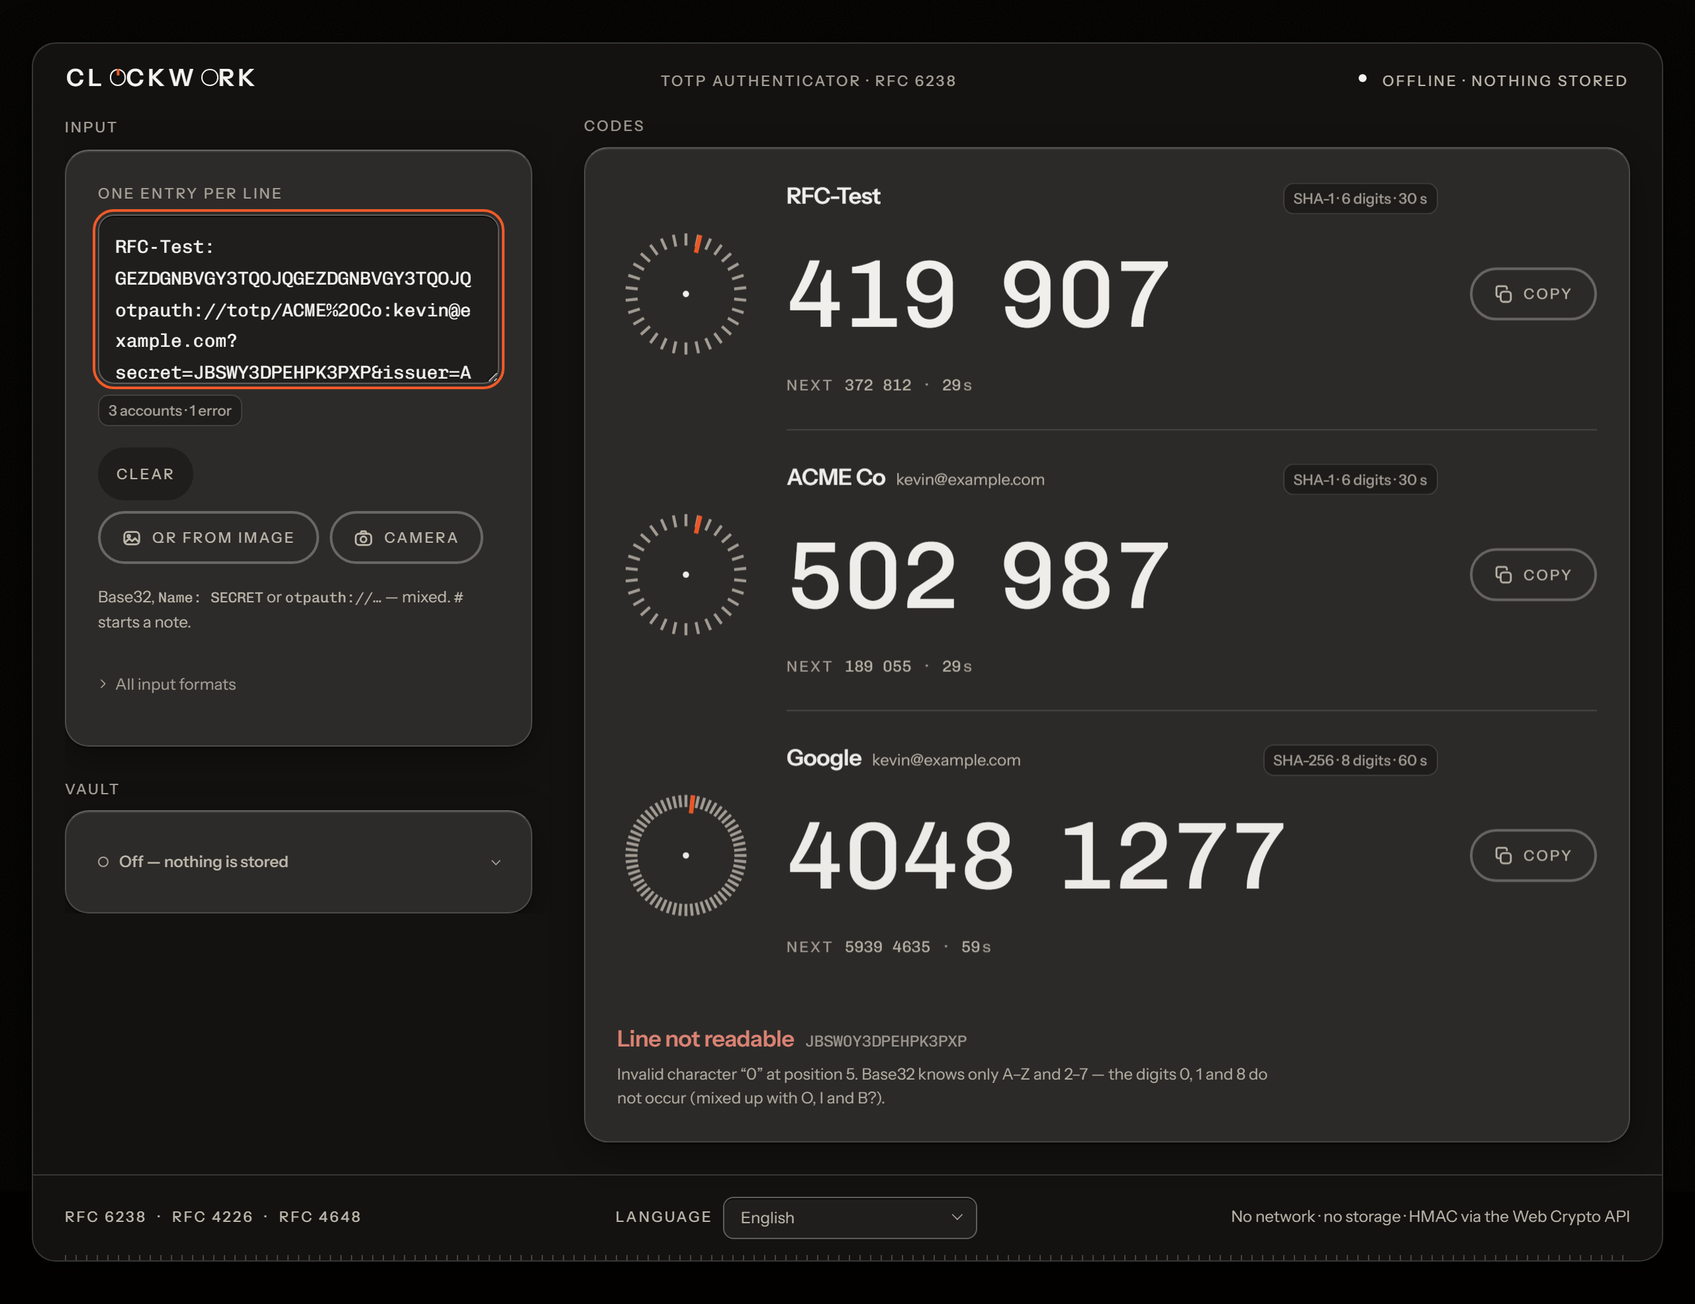
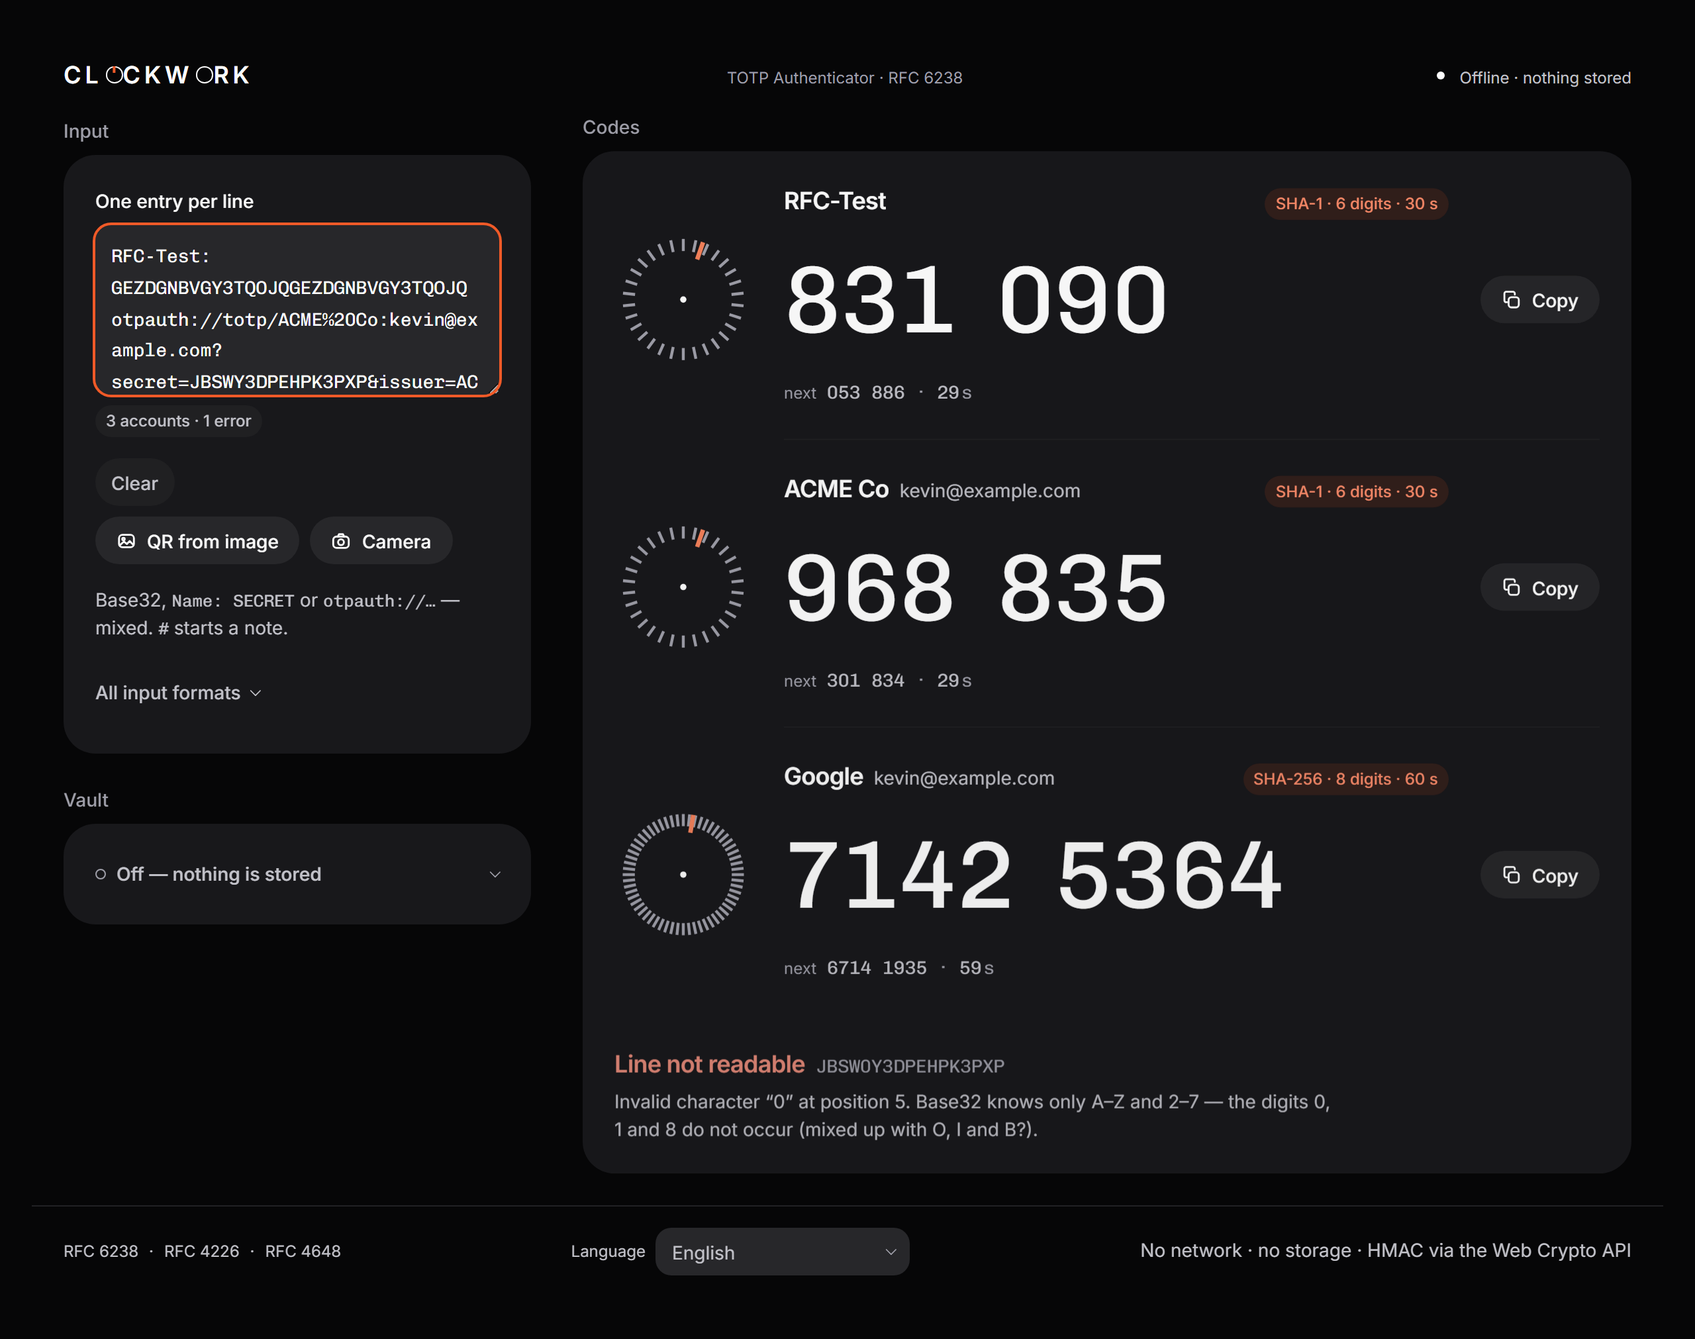
docs: Doku und README-Bilder auf v1.3.0
Bundle-Zahlen neu gemessen (781/474/457 kB), Schrift-Abschnitte auf
Inter, v1.3.0-Abschnitt in der Gestaltung, Kontrasttabellen auf die
88 Paare der neuen Leiter.

diff --git a/docs/README.de.md b/docs/README.de.md
@@ -65,7 +65,7 @@ Schloss billiger als die Frage, ob das erste noch hält.
 | Ziel                  | Was es ist                                                           |
 | --------------------- | -------------------------------------------------------------------- |
 | `dist/`               | Installierbare PWA: Manifest, Service Worker, Icons, offline nutzbar |
-| `dist/clockwork.html` | **Eine einzige Datei**, ~659 kB, alles inline — auch die Schriften   |
+| `dist/clockwork.html` | **Eine einzige Datei**, ~781 kB, alles inline — auch die Schriften   |
 
 `dist/clockwork.html` ist die Datei für den täglichen Gebrauch: irgendwohin
 kopieren, doppelklicken, fertig. Kein Server, keine Internetverbindung. Sie hat
@@ -184,7 +184,8 @@ wiegt mehrere Megabyte und würde die Single-File-Datei sprengen. Stattdessen gi
 es je Schriftsystem einen kuratierten System-Stack (`src/styles/scripts.css`),
 angesteuert über `data-script` am `<html>`.
 
-Dazu kam **ein** neuer Schnitt: Instrument Sans `latin-ext` (11 kB). Elf Sprachen
+Dazu kommt **ein** zweiter Schnitt: Inter `latin-ext` (85 kB — Inter deckt dort
+deutlich mehr Zeichen ab als das frühere Instrument Sans mit 11). Elf Sprachen
 brauchen Zeichen jenseits von Latin-1 — Polnisch (ł ą ę), Tschechisch (č ř ž),
 Ungarisch (ő ű), Rumänisch (ă ș ț), Türkisch (ğ ş) und andere. Ohne diesen
 Schnitt käme in einem polnischen Satz jedes zweite Wort aus einer Ersatzschrift.
@@ -192,8 +193,8 @@ Der Browser lädt ihn nur, wenn wirklich so ein Zeichen vorkommt — dafür ist
 `unicode-range` da.
 
 Kyrillisch, Griechisch und Vietnamesisch bekommen dagegen eine durchgehende
-Systemschrift: Für sie bringt Instrument Sans gar keinen Schnitt mit, und eine
-halb gesetzte Schrift ist schlechter als eine andere ganze.
+Systemschrift: Diese Schnitte sind nicht gebündelt, und eine halb gesetzte
+Schrift ist schlechter als eine andere ganze.
 
 Die **Wortmarke bleibt in jeder Sprache lateinisch** und in der Markenschrift.
 Ein Logo wird nicht übersetzt.
@@ -240,21 +241,22 @@ In PowerShell:
 $env:CLOCKWORK_LANGS = 'de,en,fr'; npm run build
 ```
 
-Gemessen an der einen Datei (Stand v1.2.0, alle Zahlen frisch nachgemessen):
+Gemessen an der einen Datei (Stand v1.3.0, alle Zahlen frisch nachgemessen):
 
 | Bau                       | `dist/clockwork.html` | gzip   |
 | ------------------------- | --------------------- | ------ |
-| ohne Angabe (37 Sprachen) | 659 kB                | 234 kB |
-| `de,en,fr`                | 352 kB                | 156 kB |
-| nur `en`                  | 335 kB                | 151 kB |
+| ohne Angabe (37 Sprachen) | 781 kB                | 325 kB |
+| `de,en,fr`                | 474 kB                | 248 kB |
+| nur `en`                  | 457 kB                | 243 kB |
 
-Drei Sprachen kosten also 307 kB weniger als alle 37. Die übrigen 335 kB sind
+Drei Sprachen kosten also 307 kB weniger als alle 37. Die übrigen 457 kB sind
 Schriften, jsQR und die App selbst — daran ändert die Auswahl nichts.
 
-Gegenüber v1.1.0 ist der volle Bau um **47 kB gewachsen** (612 → 659). Das sind
-die vier neuen Zeichenketten aus V7 und die zwei aus V8, in 37 Sprachen, plus
-das Markup der neuen Bauteile. Nichts davon ist Bibliothek: Die Zahl der
-Laufzeit-Abhängigkeiten steht unverändert bei eins.
+Gegenüber v1.2.0 ist der volle Bau um **122 kB gewachsen** (659 → 781), und
+diese Zahl hat genau eine Ursache: Inter. Die Oberflächenschrift der
+HeroUI-Optik wiegt als data-URI mehr als Instrument Sans — latin 48 statt
+30 kB, latin-ext 85 statt 11, jeweils mal 4/3 für Base64. Nichts davon ist
+Bibliothek: Die Zahl der Laufzeit-Abhängigkeiten steht unverändert bei eins.
 
 **Zur Einheit:** Das sind dezimale Kilobyte (1 kB = 1000 Byte), so wie ein
 Dateimanager sie anzeigt. `node scripts/check-bundle.mjs` rechnet zusätzlich in
@@ -572,6 +574,10 @@ Nachhinein, sondern der Grund, warum die Mischung nicht zu Brei wird.
 
 #### Die Flächenleiter: fünf Sprossen, jede mit einer Aufgabe
 
+_(Stand v1.2.0 — die heutige Leiter ist die der HeroUI-Referenz und steht
+unter [v1.3.0](#v130-heroui-optik); dieser Abschnitt bleibt als Begründung
+der damaligen Werte.)_
+
 Eine Erhebung, die man sehen soll, braucht etwas, worüber sie sich erhebt. Läge
 das Gerät auf derselben Fläche, aus der es besteht, bliebe vom Schatten nur ein
 Schmutzrand. Seit V5 gibt es deshalb einen **Untergrund** unter der
@@ -669,15 +675,16 @@ Zeichnen; aus Tokens war das nicht zu sehen.
 
 Die Reserveproben aus der Frost-Zeit sind geblieben, obwohl ein deckender Kopf
 sie zwangsläufig besteht. Sie kosten nichts und fangen den Tag, an dem jemand den
-Kopf wieder durchsichtig macht:
+Kopf wieder durchsichtig macht (Werte Stand v1.3.0 — der Kopf trägt jetzt den
+Seitengrund):
 
-| Was                                     | Hell   | Dunkel |
-| --------------------------------------- | ------ | ------ |
-| Kopf über der Gehäusefläche (kommt vor) | 5,02:1 | 7,22:1 |
-| Zustandszeile im Kopf                   | 6,15:1 | 9,39:1 |
-| Kopf über Signal-Orange (Reserveprobe)  | 5,02:1 | 7,22:1 |
-| Kopf über Tinte (Reserveprobe)          | 5,02:1 | 7,22:1 |
-| Kopf über Papier (Reserveprobe)         | 5,02:1 | 7,22:1 |
+| Was                                    | Hell   | Dunkel  |
+| -------------------------------------- | ------ | ------- |
+| Kopf auf dem Seitengrund (kommt vor)   | 5,14:1 | 7,72:1  |
+| Zustandszeile im Kopf                  | 7,08:1 | 11,43:1 |
+| Kopf über Signal-Orange (Reserveprobe) | 5,14:1 | 7,72:1  |
+| Kopf über Eclipse (Reserveprobe)       | 5,14:1 | 7,72:1  |
+| Kopf über Weiß (Reserveprobe)          | 5,14:1 | 7,72:1  |
 
 **Dass in den unteren drei Zeilen dreimal derselbe Wert steht, ist das
 eigentliche Ergebnis.** Genau das ist seit v1.2.0 der Selbsttest: Das Skript
@@ -687,11 +694,13 @@ einen versehentlich durchsichtigen Kopf und einen, den das Skript gar nicht
 sieht. Der zweite Fall ist nicht erfunden: Bis V7 maß das Skript wegen einer
 scrollenden Elementaufnahme den Kopf überhaupt nicht mit.
 
-Insgesamt misst das Skript **92 Paare** (46 je Modus), und alle erfüllen AA. Der
-größte Block darin ist neu: die Matrix **jede Textstufe auf jeder Fläche der
-Leiter**. Sie hat zwei Ausnahmen weggeräumt, die bis v1.1.0 nötig waren („auf dem
-Gehäuse eine Stufe kräftiger", „im Kopf noch eine") — nicht durch Nachlassen,
-sondern durch Messen.
+Insgesamt misst das Skript **88 Paare** (44 je Modus), und alle erfüllen ihr
+Maß. Der größte Block ist die Matrix **jede Textstufe auf jeder Fläche der
+Leiter** — seit v1.3.0 auf den vier Flächen Werkbank, Panel, Füllung und
+berührt. Sie hat in v1.3.0 wieder gearbeitet: HeroUIs helles `--muted`
+(`#71717a`) hält auf der Füllfläche nur 4,06:1 und wurde deshalb eine Nuance
+tiefer gesetzt (`#676770`, gemessen 4,70) — im dunklen Modus passt der
+Referenzwert unverändert.
 
 Die **Gravur-Zonenspalte am linken Rand ist entfallen.** Bis v1.1.0 stand
 EINGABE / TRESOR / CODES in einer eigenen Spalte von 6,5 rem und galt als
@@ -798,6 +807,53 @@ kein Tailwind, keine Abhängigkeit. Die Flächenleiter steht oben; dazu kamen:
 Der Vorher/Nachher-Vergleich mit allen Messwerten liegt in
 [`docs/v8-vergleich/`](v8-vergleich/README.md).
 
+### v1.3.0: HeroUI-Optik
+
+Mit v1.3.0 ist Clockwork ein **HeroUI-Theme mit Signal-Orange als Primary**:
+Die Werte stammen aus `@heroui/styles@3.2.4` — dem CSS, das
+[heroui.com](https://heroui.com) selbst ausliefert —, nachgebaut in
+handgeschriebenem Vanilla-CSS. Kein React, kein Tailwind, keine Abhängigkeit;
+die vollständige Referenzlage steht in
+[`heroui-referenz.md`](heroui-referenz.md).
+
+- **Flächen statt Kanten.** Ein Panel ist eine randlose Karte: hell Weiß auf
+  Hellgrau (`#ffffff` auf `#f5f5f5`), dunkel `#18181b` auf Fast-Schwarz
+  (`#060607`). Hell trennt der Surface-Schatten der Referenz, dunkel allein
+  die Helligkeit — `--surface-shadow: transparent` steht dort wörtlich im
+  Paket. Damit sind Haarlinien um Panels, Lichtkanten, Fräsungen, das Gehäuse
+  aus V7 und das Korn ersatzlos entfallen.
+- **Felder sind flat:** gefüllte Fläche (`#ebebec` / `#27272a`), kein Rahmen,
+  Fokus-Ring 2 px in Signal-Orange direkt auf der Feldkante (Tasten tragen
+  denselben Ring mit 2 px Versatz).
+- **Drei Tastenvarianten, alle gefüllt:** `primary` in Signal-Orange für die
+  eine Haupthandlung, `default` als neutrale Füllung, `flat` (halbe Füllung)
+  für „Leeren". Umriss-Tasten gibt es nicht mehr. Die Schrift auf dem
+  Primary-Knopf ist **gemessen, nicht übernommen**: Snow auf `#f05a28` sind
+  3,39:1 — Eclipse hält 5,23, und genau so löst es die Referenz bei ihrem
+  Amber (`--warning-foreground`). Der Markenwert bleibt unverfälscht auf der
+  Fläche.
+- **Chips getönt** (Soft-Muster): die Kontoparameter in der Signal-Tönung,
+  „n Konten" neutral. Der Schalter im Tresor trägt die Referenzgeometrie
+  (Bahn 40 × 20, Daumen 22 × 16) und ist eingeschaltet **orange** — in einem
+  HeroUI-Theme ist der Accent die Farbe jedes Ein-Zustands.
+- **Höhen touch-first wie die Referenz:** Tasten und Felder 40 px, ab 768 px
+  36; die Haupthandlung 44/40; das Auswahlfeld fest 36; die Aufklapper 44;
+  Chips 24. Radien: Karten und Popover 24, Listenzeilen und Chips 16, Felder
+  12, Kleinteile 8.
+- **Inter als Oberflächenschrift** (lokal gebündelt, +122 kB im
+  Single-File-Build — die Zahl steht oben bei den Bundle-Größen). Chivo Mono
+  bleibt für die Codes.
+- **Die Gravur ist entfallen.** Beschriftung folgt der Referenz-Hierarchie:
+  Labels 14 px im Gewicht 500, Beschreibungen 12 px auf der leisen Stufe —
+  keine gesperrten Versalien mehr, und mit ihnen starb ein Sonderfall für
+  Schriften ohne Versalien.
+- **Was blieb:** das Zifferblatt samt Proportionen (die Marke), Chivo Mono,
+  die Abstands-Token aus V8, die Federkurve — sie ist wörtlich
+  `--ease-out-fluid` der Referenz —, alle Sicherheitszusagen und die Regel,
+  dass jede Behauptung gemessen wird. Der Code als größtes Element der Karte
+  stand im Probelauf gegen einen InputOTP-Zellenstil zur Wahl; die große
+  Mono-Zahl hat gewonnen, denn Clockwork ZEIGT Codes.
+
 ### Markensystem
 
 Alle drei Zeichen aus `branding/` sind im Einsatz — sie teilen dieselbe
@@ -876,14 +932,17 @@ trägt der Markenwert selbst und beide Token sind identisch.
 Genau zwei Familien, beide **lokal im Repository** unter `src/assets/fonts/`
 (SIL Open Font License, Lizenztexte liegen daneben):
 
-- **Instrument Sans** für die Oberfläche — neutrale Grotesk, technisch, ohne
-  Manierismen. Bewusst nicht Inter oder Space Grotesk: Das sind die Schriften,
-  zu denen generisches Interface-Design greift.
+- **Inter** für die Oberfläche — seit v1.3.0, und zwar mit Ansage: Es ist die
+  Hausschrift der HeroUI-Referenz, und ein HeroUI-Theme in einer anderen
+  Grotesk wäre eine halbe Übernahme. Bis v1.2.0 stand hier Instrument Sans,
+  gewählt, WEIL es nicht Inter war; diese Begründung ist mit der
+  Referenz-Entscheidung bewusst gefallen.
 - **Chivo Mono** für die Codes — geometrische Mono mit gleichmäßigen,
-  geschlossenen Ziffern.
+  geschlossenen Ziffern. Sie bleibt: Ein Code wird abgetippt und braucht
+  dicktengleiche Ziffern, und daran ändert keine Optik etwas.
 
 Kein Google-Fonts-Link, kein CDN: Ein Font-Download wäre eine Netzwerkanfrage.
-Beide sind Variable Fonts im Latin-Subset (30 kB und 26 kB) und werden im
+Beide sind Variable Fonts im Latin-Subset (48 kB und 26 kB) und werden im
 Single-File-Build als `data:`-URI eingebettet.
 
 `font-display: swap` statt `block` — `block` verschweigt den Text bis zu drei

diff --git a/CONTRIBUTING.md b/CONTRIBUTING.md
@@ -106,53 +106,50 @@ one of them will be turned down even if the code is good.
 
 ## Design system
 
-The guiding idea is a **precision instrument** in the spirit of Dieter Rams,
-softened since v5 by Apple's sense of material. The one rule that decided every
-detail: **what you touch is soft, what you read is sharp.**
+Since v1.3.0 Clockwork is a **HeroUI theme with signal orange as the primary
+colour** — the values of [heroui.com](https://heroui.com) (`@heroui/styles`),
+rebuilt in hand-written vanilla CSS. No React, no Tailwind, no dependency; the
+extracted reference values live in `docs/heroui-referenz.md`.
 
 - **Every value comes from `src/styles/tokens.css`.** No component ever sets its
-  own colour, size, radius, shadow or easing.
-- **The palette is binding:** ink `#171614`, paper `#F5F3EF`, night `#131210`,
-  signal `#F05A28`. Paper and night sit on the panels — they are the _housing_.
-  `--ground` underneath them is a derived tone, the desk the device rests on.
-- **Two signal tokens:** `--signal` (brand value, for marks and areas, 3:1 is
-  enough) and `--signal-text` (deeper, 4.6:1, for small text on paper).
-- **Exactly one accent**, only for states that mean something: the last five
-  seconds, a confirmed copy, an open vault, the scanner frame. Never decoration.
-- **Two typefaces**, local under `src/assets/fonts/`: Instrument Sans for the
-  interface, Chivo Mono for the codes. No Google Fonts link.
+  own colour, size, radius, shadow or easing. `scripts/check-tokens.mjs`
+  enforces it.
+- **Surfaces are borderless.** A panel is a white card on light grey
+  (`#ffffff` on `#f5f5f5`), in dark mode `#18181b` on near-black (`#060607`).
+  Light mode separates with the reference's surface shadow, dark mode with
+  lightness alone — the reference ships `--surface-shadow: transparent` there
+  on purpose. Visible borders around panels and fields do not exist.
+- **Fields are flat:** a filled area (`--surface-fill`, `#ebebec` / `#27272a`),
+  no border, and a 2 px focus ring in signal orange sitting directly on the
+  field edge (buttons get the same ring with a 2 px offset).
+- **One accent, now the primary:** `#F05A28` fills the one primary action per
+  panel, the focus ring, the tinted chips and the switch's on-state. The text
+  on it is measured, not assumed: snow on signal is 3.39:1, so primary buttons
+  carry near-black text (5.23:1) — the same pattern HeroUI uses for its amber
+  warning colour. `--signal-text` (`#a8360c` / `#f4825c`) covers small text
+  and fine marks like the dial hand.
+- **Three button variants, all filled:** `primary` (signal), `default`
+  (neutral fill) and `flat` (half fill, for "Clear"). Outline buttons are gone.
+- **Heights follow the reference, touch-first:** buttons and fields are 40 px,
+  36 px from 768 px up; the large primary 44/40; the select fixed 36; the two
+  disclosures 44; chips 24.
+- **Radii:** cards and popovers 24 px, list rows and chips 16 px, fields
+  12 px, small parts 8 px, buttons are pills.
+- **Two typefaces**, local under `src/assets/fonts/`: Inter for the interface
+  (the reference's house face), Chivo Mono for the codes — a code gets typed
+  into other people's login fields and needs tabular digits. No Google Fonts
+  link.
 - **No donut ring.** The countdown is a radial 30-mark scale with a rotating
-  hand — the same geometry as the brand emblem.
-- **Three radii and no more:** `--radius-panel` (18 px) for housing groups,
-  `--radius-field` (12 px) for inputs, `--radius-inset` (8 px) for small parts,
-  plus `--radius-key` for the pill every button is.
-- **Five surface rungs, each with a job:** workbench → housing → recessed →
-  panel → touched. Until v1.2.0 there were three, and one token stood for both
-  "recessed" and "touched" — that is, for opposites. In dark mode the ladder
-  climbs _upward_: night is the housing and the panels rise above it, because
-  night on the panels leaves at most 1.122:1 of room underneath.
-- **Two elevation levels and no more:** level 1 is a housing group on the
-  ground, level 2 is the sticky masthead above everything. Every raised surface
-  also carries a hairline — a shadow alone does not survive a high-contrast
-  setting or a printout.
-- **A height ladder for controls:** 32 px for the select, 40 px
-  (`--control-h`) for fields and buttons, 44 px for the two disclosures
-  (`--touch-min`), 48 px for a panel's one primary action, 24 px for chips.
-- **Accounts are still not cards.** The _group_ is rounded and raised; the
-  channel strips inside it stay strips, separated by hairlines that start
-  behind the dial. Turning each account into its own card would undo the whole
-  idea.
-- **`backdrop-filter` does not appear at all.** Up to v1.1.0 it sat on the
-  sticky masthead. It is gone: a cover plate you can see through is not one,
-  and an opaque masthead has a contrast you can actually compute, because it no
-  longer depends on whatever happens to scroll underneath it.
-- **Grain only on the workbench**, outside the device. On a surface you read
-  from, grain is not material — it is unrest.
-- **No gradients, no glow.** Soft diffusion yes, glowing no. There is no shadow
-  in the signal colour.
+  hand — the same geometry as the brand emblem. The dial did not change in the
+  restyle.
+- **Accounts are still not cards.** The codes panel is ONE card; the channel
+  strips inside it stay strips, separated by solid hairline seams. Turning
+  each account into its own card would undo the whole idea.
 - **Springs for the surface, linear for the instrument.** UI motion uses
-  `--ease-spring` at 150–350 ms. The countdown hand keeps computing linearly
-  from the clock: a spring curve on a time display is a lie about time.
+  `--ease-spring` — which is literally the reference's `--ease-out-fluid`,
+  `cubic-bezier(0.32, 0.72, 0, 1)`. The countdown hand keeps computing
+  linearly from the clock: a spring curve on a time display is a lie about
+  time.
 
 ### Measure it, do not eyeball it
 
@@ -165,8 +162,8 @@ node scripts/check-tokens.mjs      # no component sets its own values
 ```
 
 `check-contrast.mjs` reads the pixels the browser actually painted — including
-opacity and half-covering hairlines — rather than computing from tokens, because
-overlapping surfaces only exist once something is drawn. It measures **92 pairs**
+opacity and colour-mix tints — rather than computing from tokens, because
+overlapping surfaces only exist once something is drawn. It measures **88 pairs**
 across both colour schemes, including the full matrix of every text step on
 every surface of the ladder. Run it after any change to colours or opacity. It
 needs a server on port 5180.

diff --git a/README.md b/README.md
@@ -179,9 +179,9 @@ $env:CLOCKWORK_LANGS = 'de,en,fr'; npm run build  # PowerShell
 
 | Build                  | `dist/clockwork.html` | gzip   |
 | ---------------------- | --------------------- | ------ |
-| default (37 languages) | 659 kB                | 234 kB |
-| `de,en,fr`             | 352 kB                | 156 kB |
-| `en` only              | 335 kB                | 151 kB |
+| default (37 languages) | 781 kB                | 325 kB |
+| `de,en,fr`             | 474 kB                | 248 kB |
+| `en` only              | 457 kB                | 243 kB |
 
 Sizes are decimal kB (1000 bytes). `scripts/check-bundle.mjs` prints both that
 and KiB, because mixing the two silently is a mistake this project has already
@@ -227,7 +227,7 @@ npm run shots       # Playwright walk-through + screenshots (needs a server on :
 | Target                | What it is                                                      |
 | --------------------- | --------------------------------------------------------------- |
 | `dist/`               | Installable PWA: manifest, service worker, icons, works offline |
-| `dist/clockwork.html` | One file, everything inline — including the fonts. ~659 kB      |
+| `dist/clockwork.html` | One file, everything inline — including the fonts. ~781 kB      |
 
 Hosting is a plain static deploy; `vercel.json` carries the security headers,
 and a test keeps them in step with the policy the build embeds.
@@ -247,8 +247,8 @@ public issue.
 
 [MIT](LICENSE) © 2026 Kevin.
 
-The fonts under `src/assets/fonts/` are Instrument Sans and Chivo Mono, both
-under the SIL Open Font License; their licence texts sit next to them.
+The fonts under `src/assets/fonts/` are Inter and Chivo Mono, both under the
+SIL Open Font License; their licence texts sit next to them.
 
 ---
 
